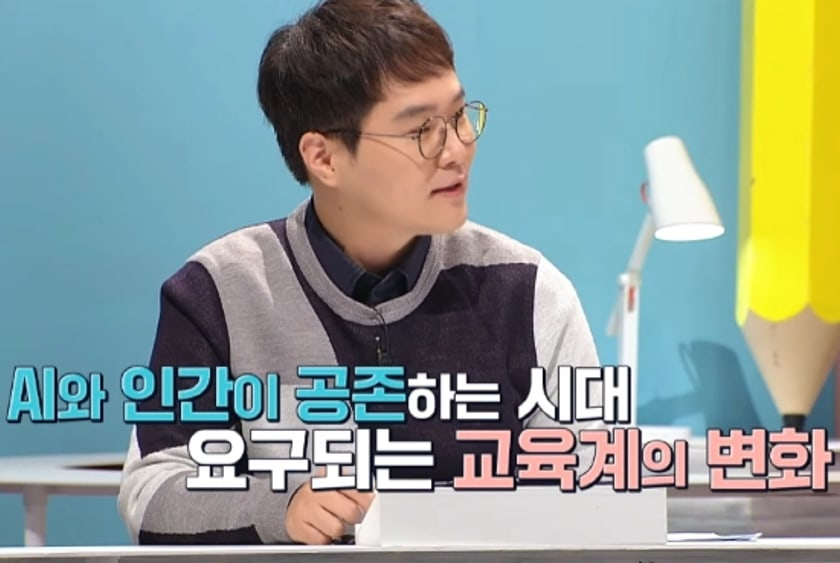
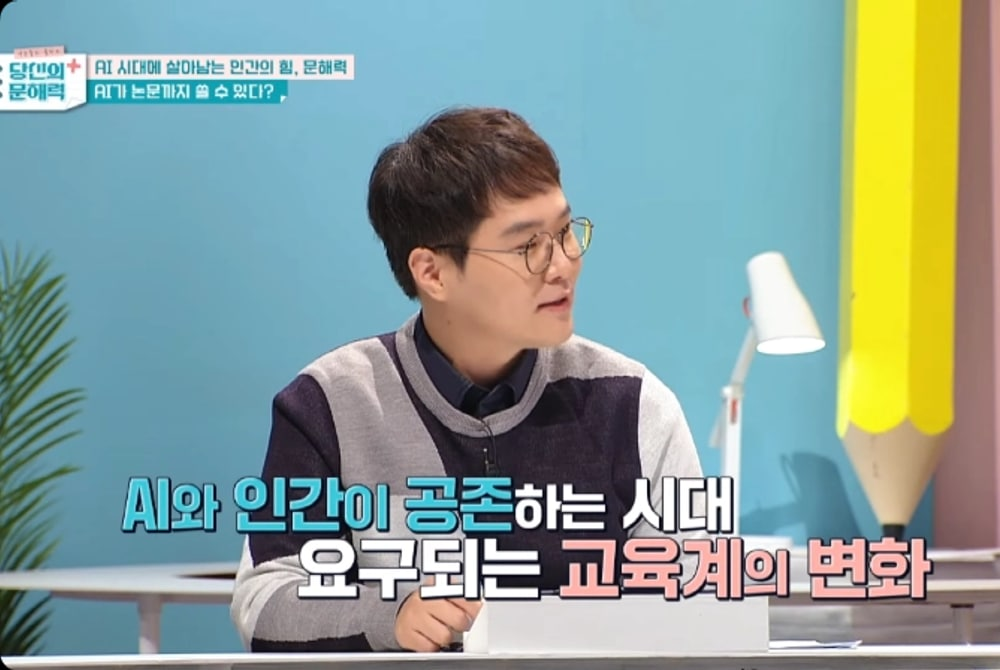
시안 B: EBS 슬라이드를 원본 전체 높이로 다시 크롭
로고 바를 피하려고 y=79 부터 잘랐더니 인물 머리 위가 잘렸다.
로고와 상단 띠는 EBS 출연을 드러내는 요소라 빼야 할 이유가 없어
원본 448px 전체 높이를 쓰는 크롭(x 0~669)으로 바꿨다.

- 〈당신의 문해력+〉 로고와 "AI 시대에 살아남는 인간의 힘, 문해력" 띠 포함
- 머리 위 여백 확보, 방송 자막은 그대로 전체 포함
- 소스 551x369 → 669x448 로 넓어져 데스크톱 배율 1.45 → 1.73

diff --git a/index-b.html b/index-b.html
@@ -115,29 +115,29 @@
       <div class="hero-slideshow" aria-roledescription="carousel">
         <a class="hero-slide is-active hero-slide-cap-top" href="speaking-media.html#broadcast" data-i="0">
           <picture>
-            <source srcset="assets/hero-slideshow/s-ebs.webp?v=3" type="image/webp">
-            <img src="assets/hero-slideshow/s-ebs.jpg?v=3" alt="" width="1160" height="777" loading="eager" fetchpriority="high" decoding="async">
+            <source srcset="assets/hero-slideshow/s-ebs.webp?v=4" type="image/webp">
+            <img src="assets/hero-slideshow/s-ebs.jpg?v=4" alt="" width="1160" height="777" loading="eager" fetchpriority="high" decoding="async">
           </picture>
           <span class="hero-slide-caption">EBS ‹당신의 문해력 플러스›</span>
         </a>
         <a class="hero-slide hero-slide-full" href="en.html" data-i="1">
           <picture>
-            <source srcset="assets/hero-slideshow/s-lacma.webp?v=3" type="image/webp">
-            <img src="assets/hero-slideshow/s-lacma.jpg?v=3" alt="" width="1160" height="777" loading="eager" decoding="async">
+            <source srcset="assets/hero-slideshow/s-lacma.webp?v=4" type="image/webp">
+            <img src="assets/hero-slideshow/s-lacma.jpg?v=4" alt="" width="1160" height="777" loading="eager" decoding="async">
           </picture>
           <span class="hero-slide-caption">LACMA · Los Angeles</span>
         </a>
         <a class="hero-slide" href="research.html#academic" data-i="2">
           <picture>
-            <source srcset="assets/hero-slideshow/s-kaist.webp?v=3" type="image/webp">
-            <img src="assets/hero-slideshow/s-kaist.jpg?v=3" alt="" width="1160" height="777" loading="eager" decoding="async">
+            <source srcset="assets/hero-slideshow/s-kaist.webp?v=4" type="image/webp">
+            <img src="assets/hero-slideshow/s-kaist.jpg?v=4" alt="" width="1160" height="777" loading="eager" decoding="async">
           </picture>
           <span class="hero-slide-caption">KAIST 인간의기원연구소 강연</span>
         </a>
         <a class="hero-slide" href="speaking-media.html#university" data-i="3">
           <picture>
-            <source srcset="assets/hero-slideshow/s-hawaii.webp?v=3" type="image/webp">
-            <img src="assets/hero-slideshow/s-hawaii.jpg?v=3" alt="" width="1160" height="777" loading="eager" decoding="async">
+            <source srcset="assets/hero-slideshow/s-hawaii.webp?v=4" type="image/webp">
+            <img src="assets/hero-slideshow/s-hawaii.jpg?v=4" alt="" width="1160" height="777" loading="eager" decoding="async">
           </picture>
           <span class="hero-slide-caption">University of Hawai‘i 초청 강연</span>
         </a>
